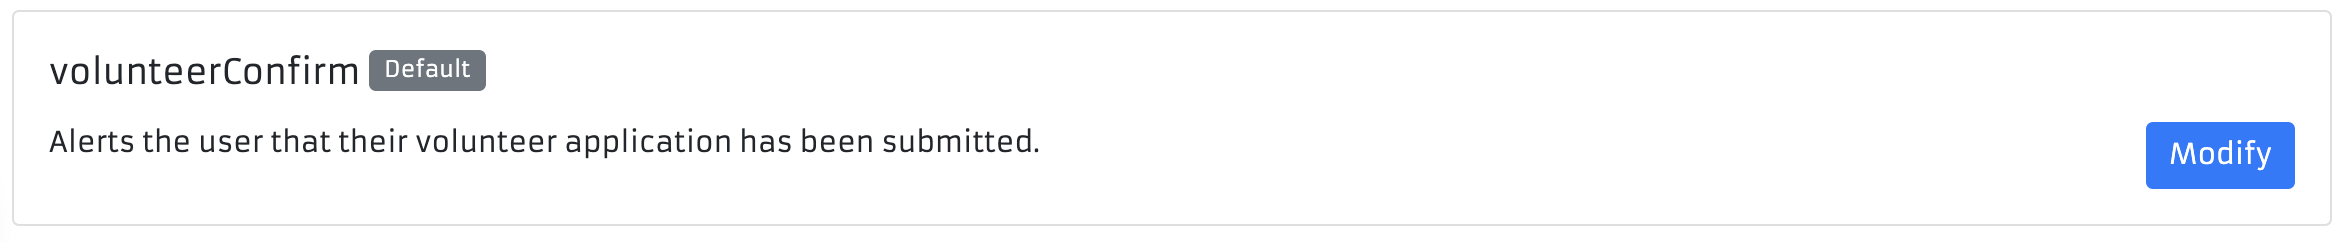
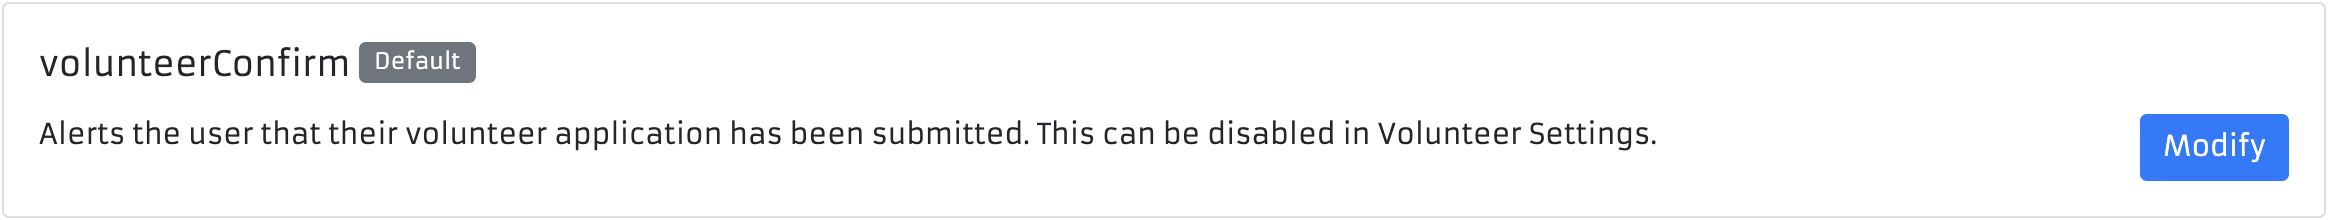
Update for UI changes and functional changes

diff --git a/docs/guides/templates/templates.md b/docs/guides/templates/templates.md
@@ -5,7 +5,7 @@ hide_table_of_contents: true
 
 # Email Template Overrides
 
-ConCat sends attendees emails for various actions taken in the application, for example when they successfully pay for an order, or when they change their email address. These templates can be overriden for a better level of customization, if you wish.
+ConCat sends attendees emails for various actions taken in the application, for example when they successfully pay for an order, or when they change their email address. These templates can be overriden for a better level of customization, and some can be disabled outright.
 
 ### List templates
 
@@ -29,24 +29,24 @@ You can now view all available templates, a brief description of what they are u
 <ul>
   <li>
     <span>
-      <strong>Default</strong> - The template is not being overridden, and is using the default ConCat provided template.
+      <strong>Default</strong> - The email template is not being overridden, and is using the default ConCat provided template.
     </span>
   </li>
-    <li>
+  <li>
     <span>
-      <strong>Has Override</strong> - The template contains an override.
+      <strong>Overridden</strong> - The email template is being overridden by a custom template.
     </span>
   </li>
-    <li>
+  <li>
     <span>
-      <strong>Active Override</strong> - The template actively being overriden.
+      <strong>Disabled</strong> - The email template is disabled and will not be sent.
     </span>
   </li>
 </ul>
 
 ### Configuring overrides
 
-Upon selecting "Modify" on the template you wish to inspect, you can view a rendered example email of the template, alongside an "Active" badge next to whichever template would be sent.
+Upon selecting "Modify" on the template you wish to inspect, you can view a rendered example email of the template, alongside a "Current" badge next to whichever configuration is active.
 
 Templates can only have two potential overrides, this being an organization level or a convention level override. The default template cannot be deleted.
 
@@ -83,7 +83,7 @@ Selecting modify, I'm presented with an overview of current overrides for the te
 
 In the overview you're able to view the default template and any overrides. The green "Active" tag will be shown next to whichever will be sent out to users. Right now, that's the default template. I only want this template to apply for this convention, so I'm going to select "Create Override" next to Convention Level Override.
 
-<img className="bordered-img" src="/img/tutorial/emailTemplates/volunteerConfirmCreateOverride.png" />
+<img className="bordered-img" src="/img/tutorial/emailTemplates/volunteerConfirmEditor.png" />
 
 I start with the default template and can modify it as I please. A preview is automatically generated below, and the variables available for you to use are provided on the right.
 
@@ -102,8 +102,10 @@ While editing, you may see errors come up. These are to ensure you're not includ
 #### Missing Variables
 
 This means you used a variable that does not exist within the context of the template. Check your spelling or remove it.
-<img className="bordered-img" src="/img/tutorial/emailTemplates/variablesMissing.png" />
+<img className="bordered-img" src="/img/tutorial/emailTemplates/variableMissingEditor.png" />
 
 #### Parse Error
-Something went wrong when the server tried to parse your template. Please read the error message and check the offending element. It's likely you left an open bracket (`{{`) or something of the sort.
-<img className="bordered-img" src="/img/tutorial/emailTemplates/parseError.png" />
+<div className="flex-container">
+  <p>Something went wrong when the server tried to parse your template. Please read the error message and check the offending element. It's likely you left an open bracket <code>&#123;&#123;</code> or something of the sort.</p>
+  <img className="bordered-img" src="/img/tutorial/emailTemplates/parseErrorPreview.png" />
+</div>
